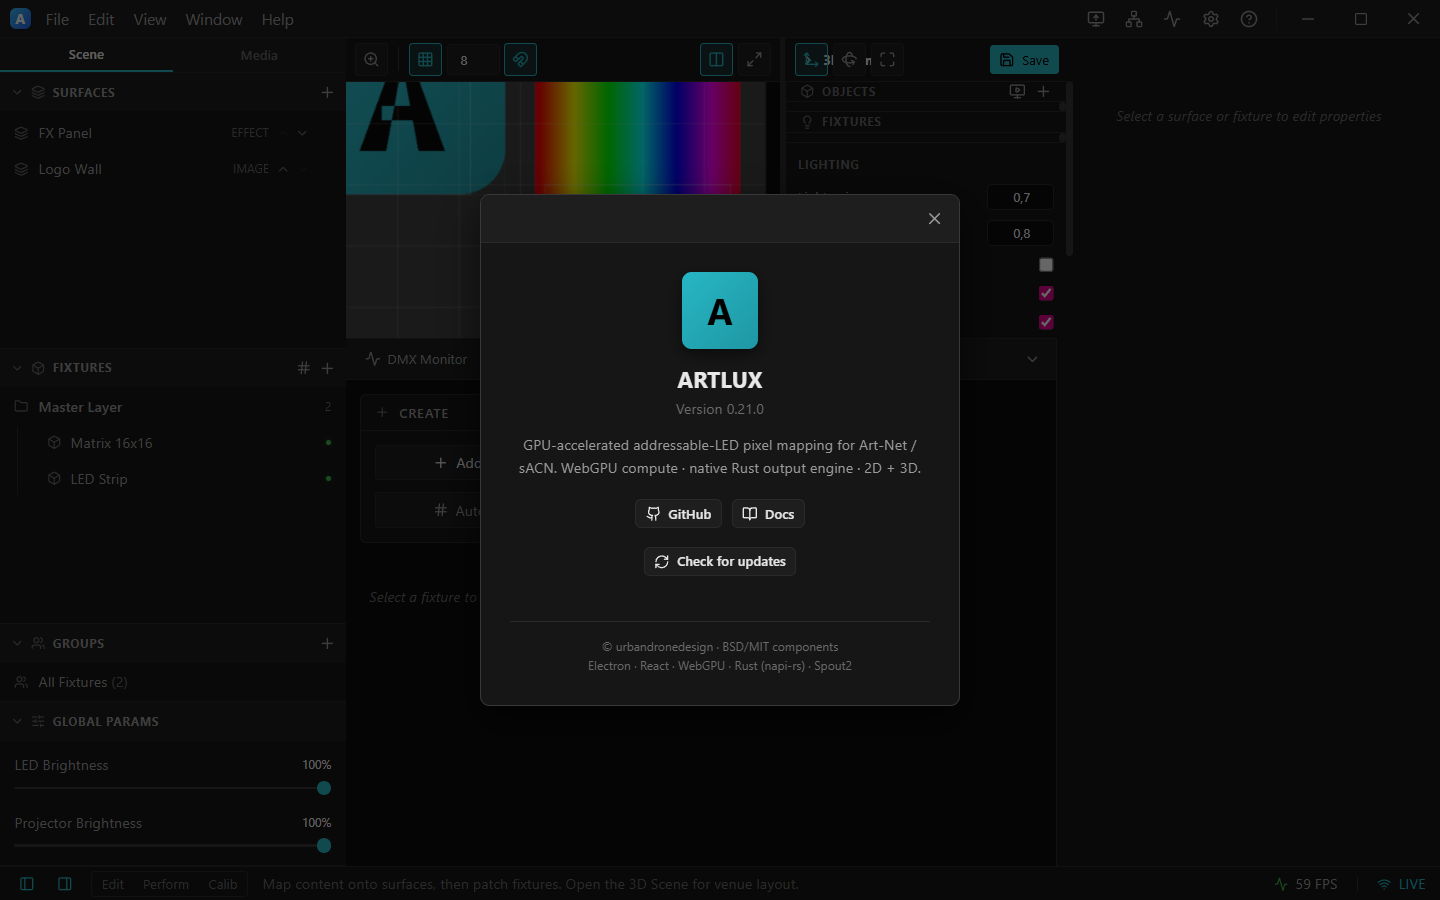
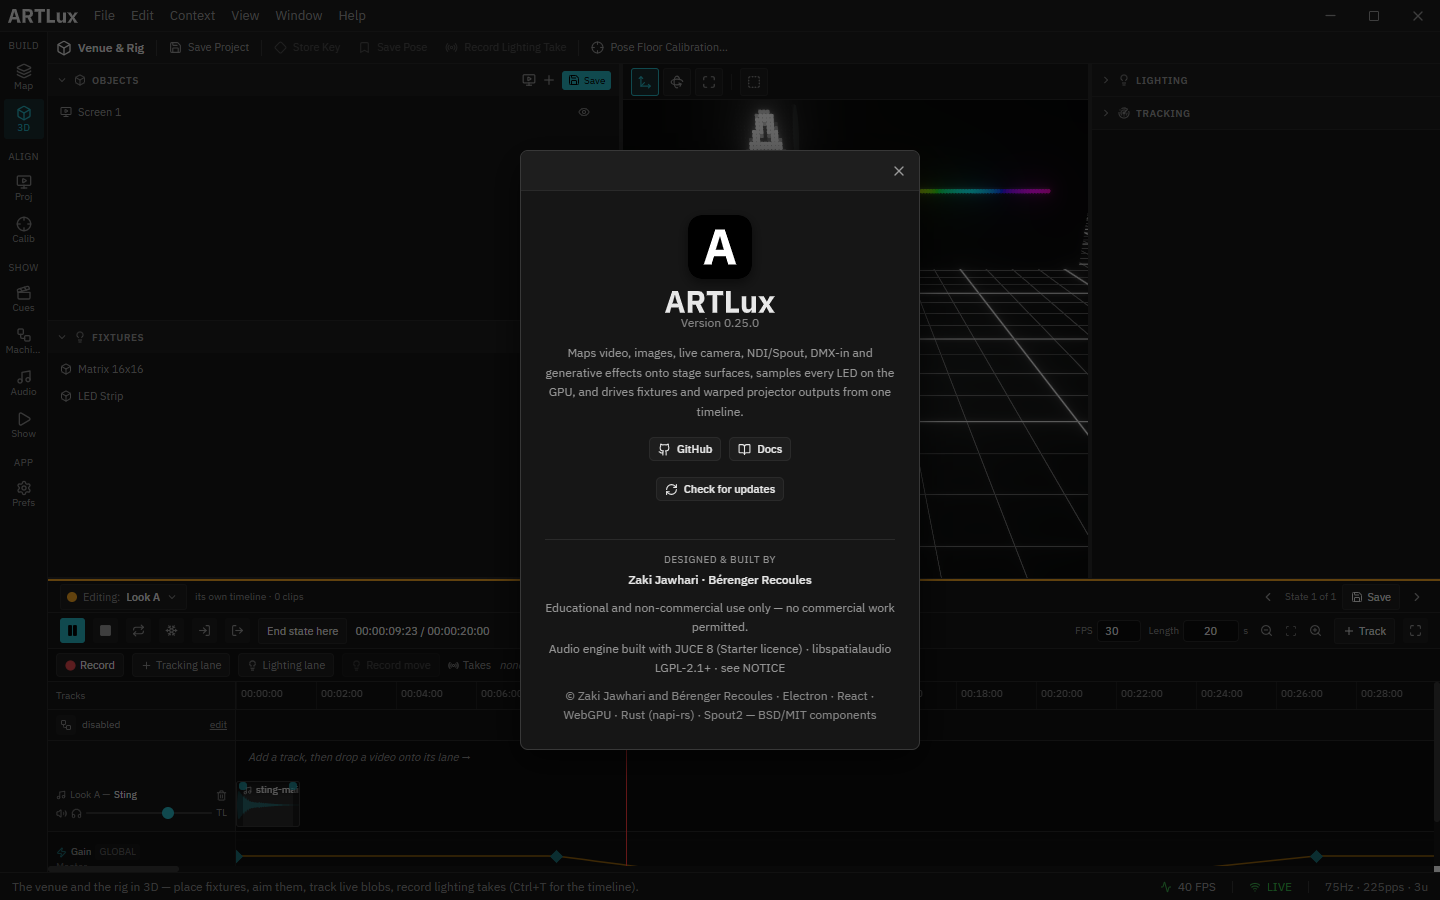
docs(guide): re-shoot the whole guide against the docked shell, and make staleness self-report
The owner declared feature work finished, which was the stated precondition for
this - the guide's own README said re-capture was deferred until the app was
considered stable. All 18 screenshots now come from the current dockable
workbench shell, in one pass, and every "these are outdated" banner and caption
is gone.

THE HARNESS HAD ROTTED WITH THE SHELL and had to be repaired before it could shoot
anything. It drove the old fixed shell by clicking text inside hard-coded screen
regions (maxLeft 300 meant "the left panel"), and its very first wait hung
forever because the app restores the LAST USED context, which is very often not
the one showing surfaces. Four traps, each costing a run:

- the restored context. Added goContext(), which clicks the rail button by its
  title, and settleAfterReload(), which always chooses a workbench before waiting
  on project content. The same bug existed twice; the helper makes a third
  impossible.
- the app navigates itself during startup, so a poll running across it dies with
  "Execution context was destroyed" - which reads like a broken selector.
- worse, the renderer TARGET is replaced, so the Page handle captured before a
  reload detaches. Only re-acquiring the target inside the retry survives it.
- three shots pointed at controls that had moved: Scenes & Cues and Preferences
  became workbenches, Media Library became a dock tab. A fourth,
  09-asset-manager, pointed at a panel DELETED on 2026-07-23 and folded into the
[…]

diff --git a/plans/documentation-wiki.md b/plans/documentation-wiki.md
@@ -321,10 +321,23 @@ updates the wiki for free.**
 
 ## 7. Open questions for a human
 
-1. **Screenshots now block the site.** They are knowingly pre-workbench, and re-capture is deferred until
-   the app is stable, as one whole-guide `capture-docs.cjs` pass. That was tolerable for a repo file; a
-   public *usage* site whose every screenshot shows a shell that no longer exists is not. Ship with the
-   banner, or gate Phase 3 on the capture pass?
+1. ~~**Screenshots now block the site.**~~ ✅ **RESOLVED 2026-07-29** — the owner declared feature work
+   finished, which was the stated precondition ("deferred until the app is considered stable"), and the
+   whole guide was re-captured in one pass against the **dockable workbench** shell. Every "⚠ these are
+   outdated" banner and caption is gone from the guide.
+   **The harness had rotted with the shell and had to be repaired first** — it drove the old fixed shell
+   by clicking text inside hard-coded screen regions, and its very first wait hung forever because the
+   app restores the *last used* context. Four traps, each of which cost a run: the restored context; the
+   app's own startup navigation destroying the execution context mid-poll; the renderer **target** being
+   replaced so the `Page` handle detaches; and three shots pointing at controls that had moved
+   (Scenes & Cues and Preferences became workbenches, Media Library became a dock tab) plus one —
+   `09-asset-manager` — pointing at **a panel deleted on 2026-07-23**, which was failing silently rather
+   than saying the panel had gone.
+   **And it published the capturing machine's LAN address and live tablet PIN** into a public repo until
+   a redaction step was added — caught by *looking at the picture* rather than at the ✓ beside it. The
+   first two redaction rules were themselves wrong, rewriting the port field's caption to "default 0000"
+   when the real default is 8788: *a redaction that invents a wrong fact is worse than the exposure it
+   prevents.*
 2. **French.** The help layer is already `{en, fr}`-shaped with FR written for only 5 guides, and Starlight
    has first-class i18n. For an operator audience this is a real decision, not a nicety — is FR a goal?
 3. **Phase 2 depth.** Extract all 18 hybrids, or start with the nine high-value ones and leave the rest

diff --git a/docs/user-guide/README.md b/docs/user-guide/README.md
@@ -12,15 +12,10 @@ page with a screenshot and a walkthrough of what each control does and when you'
 > Screenshots are captured from a small built‑in demo project (two surfaces, a strip + a matrix
 > fixture, a timeline, a 3D scene and an output) so the panels look the way they will in real use.
 
-> ⚠ **The screenshots currently in this guide predate the workspace rewrite** and show the old fixed
-> shell — a Scene/Media tab column, a Stage/3D split, and a four‑tab dock. The **text** on every page
-> describes the app as it is now: nine **workbenches** on a left rail, with every panel draggable into
-> tabs and splits.
->
-> **The re-capture is deliberately deferred until the app is considered stable**, and it is one pass
-> over the whole guide (`node scripts/capture-docs.cjs`) rather than a page at a time — a guide whose
-> screenshots come from three different shells is worse than one that is uniformly out of date and
-> says so.
+> Screenshots were re-captured against the current **dockable workbench** shell on **2026-07-29**, in
+> one pass over the whole guide (`npm run docs:capture`) — a guide whose pictures come from three
+> different shells would be worse than one that is uniformly out of date. If the shell changes again,
+> re-run that one command rather than re-shooting a page at a time.
 
 ---
 
@@ -43,9 +38,8 @@ Keep that order in mind and everything follows: **no surface → nothing to samp
 fixture linked → nothing goes out; fixture linked but content is *None* → it stays black.**
 
 ![The ArtLux main editor](images/00-main-editor.png)
-*Outdated — the pre‑workbench shell. Today: the workbench rail on the far left, then the browser
-column, the viewport, the dock under it, the parameters column on the right, and the timeline drawer
-along the bottom — all rearrangeable.*
+*The workbench rail on the far left, then the browser column, the viewport, the dock under it, the
+parameters column on the right, and the timeline drawer along the bottom — all rearrangeable.*
 
 ---
 

diff --git a/CLAUDE.md b/CLAUDE.md
@@ -84,8 +84,13 @@ times and the guide's *prose* survived all three while every *screenshot* went s
    reads it. Never copy usage prose into a second file — two copies drift the first time a feature lands.
    `verify:docs` fails a `hybrid` page that marks no contributor region, because an unmarked hybrid is
    not neutral: it silently declares its whole implementation half to be operator documentation.
-3. **Cap and stamp the pictures.** 22 screenshots is a ceiling; prefer hand-authored SVG diagrams (shell-
-   independent) and let `capture-docs.cjs`'s version stamp render the staleness banner automatically.
+3. **Cap and stamp the pictures.** ~18 screenshots is a ceiling; prefer hand-authored SVG diagrams
+   (shell-independent). `npm run docs:capture` re-shoots the whole guide in one pass and stamps
+   `docs/user-guide/images/captured.json` with the app version and a **shell signature** (a hash of the
+   rail, the context manifests, the fallback shell and the dock renderer). `verify:docs` recomputes it
+   and **warns** — never fails — when the shell has moved since. Staleness is measured now, not
+   remembered: the old mechanism was a hand-written "⚠ these are outdated" banner that someone had to
+   think to add and then think to remove, and it survived three shell generations.
 
 Corollary for prose you write: describe **verbs and destinations**, never panel coordinates — that is what
 let the text survive three shell rewrites.

diff --git a/docs/user-guide/11-projects-media-broadcast.md b/docs/user-guide/11-projects-media-broadcast.md
@@ -40,13 +40,9 @@ tracking takes in one place.
 
 ### Inspecting an asset
 
-> ⚠ The separate **Asset Manager** window is **gone**. Everything it did that was not already in the
-> Media Library — the per‑asset inspector — is now the **bottom section of the library itself**, so
-> there is one place to look instead of two. *Consolidate* is an action‑bar item. The screenshot below
-> is outdated; re‑capture with `node scripts/capture-docs.cjs`.
-
-![The retired Asset Manager](images/09-asset-manager.png)
-*Outdated — the standalone Asset Manager, since folded into the Media Library.*
+The separate **Asset Manager** window is gone. Everything it did that the Media Library did not already
+do — the per‑asset inspector — is the **bottom section of the library itself**, so there is one place to
+look instead of two. *Consolidate* is an action‑bar item.
 
 Select an asset and the inspector shows its size, duration, dimensions, path, and whether it is
 missing on disk. From here you can also see its **usage** (click a surface usage to jump to it), **Relink** a

diff --git a/docs/user-guide/03-fixtures.md b/docs/user-guide/03-fixtures.md
@@ -24,12 +24,9 @@ selected. Two things are not in the column and ship as dock tabs in **Map**:
 | **Library** | the shipped DMX profiles, and your own LED templates |
 | **Wiring & Ledmap** | the physical-order preview, and the ledmap tools (LED fixtures only) |
 
-> ⚠ The screenshot below — the seven-card **Fixture Editor** dock — is **outdated**. Five of its
-> cards were a second rendering of controls the parameters column now owns and explains; *Create*
-> moved to the action bar. Re-capture with `node scripts/capture-docs.cjs`.
-
-![The retired Fixture Editor dock](images/04-fixture-editor.png)
-*Outdated — the Fixture Editor dock as it was before the split.*
+![The fixture docks](images/04-fixture-editor.png)
+*The fixture docks. The old seven-card *Fixture Editor* became these two: five of its cards were a
+second rendering of controls the parameters column already owns, and *Create* moved to the action bar.*
 
 ---
 

diff --git a/docs/user-guide/01-interface-tour.md b/docs/user-guide/01-interface-tour.md
@@ -3,12 +3,9 @@
 This page names every part of the editor so the rest of the guide can refer to them. If you only
 read one page first, read this one.
 
-> ⚠ **The screenshots on this page and throughout this guide predate the workspace rewrite** and
-> show the old fixed shell (a Scene/Media tab column, a Stage/3D split, a four-tab dock). The *text*
-> below describes the app as it is now. Re-capture with `node scripts/capture-docs.cjs`.
-
 ![The main editor with its regions](images/00-main-editor.png)
-*The whole editor at a glance.*
+*The whole editor at a glance: the workbench rail on the far left, the browser column, the viewport,
+the dock beneath it, the parameters column on the right, and the timeline drawer along the bottom.*
 
 ---
 
